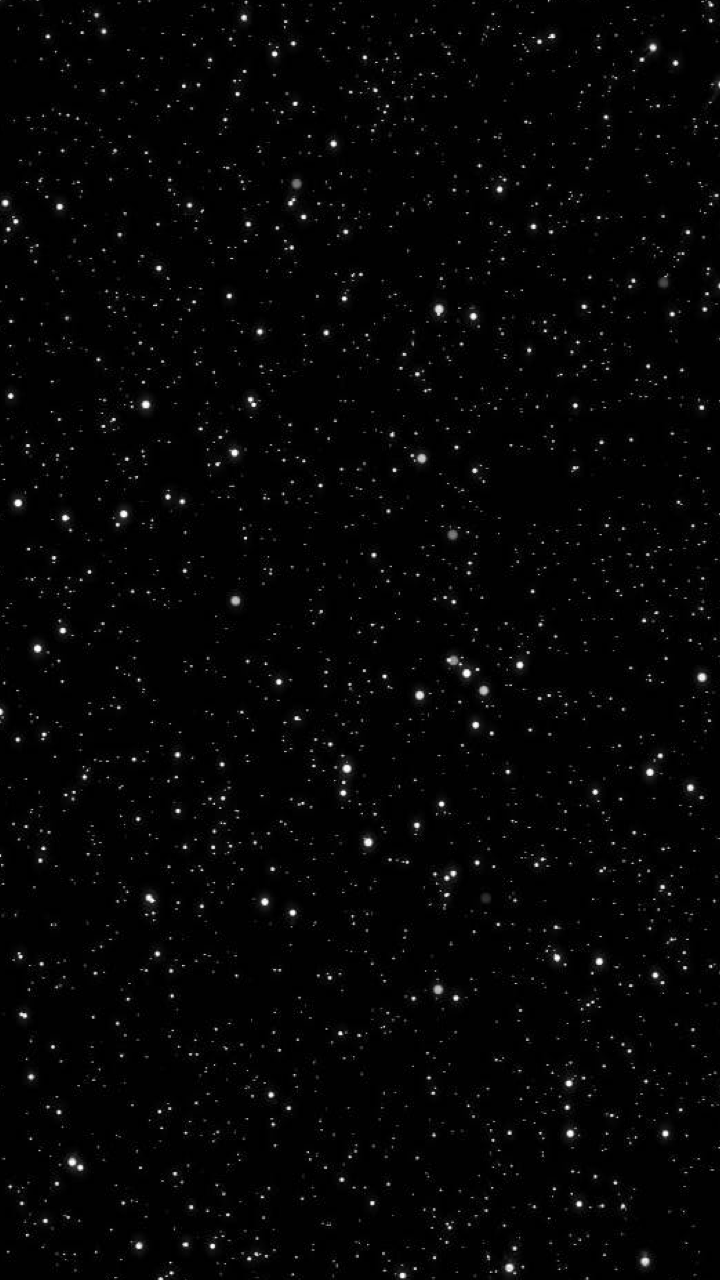
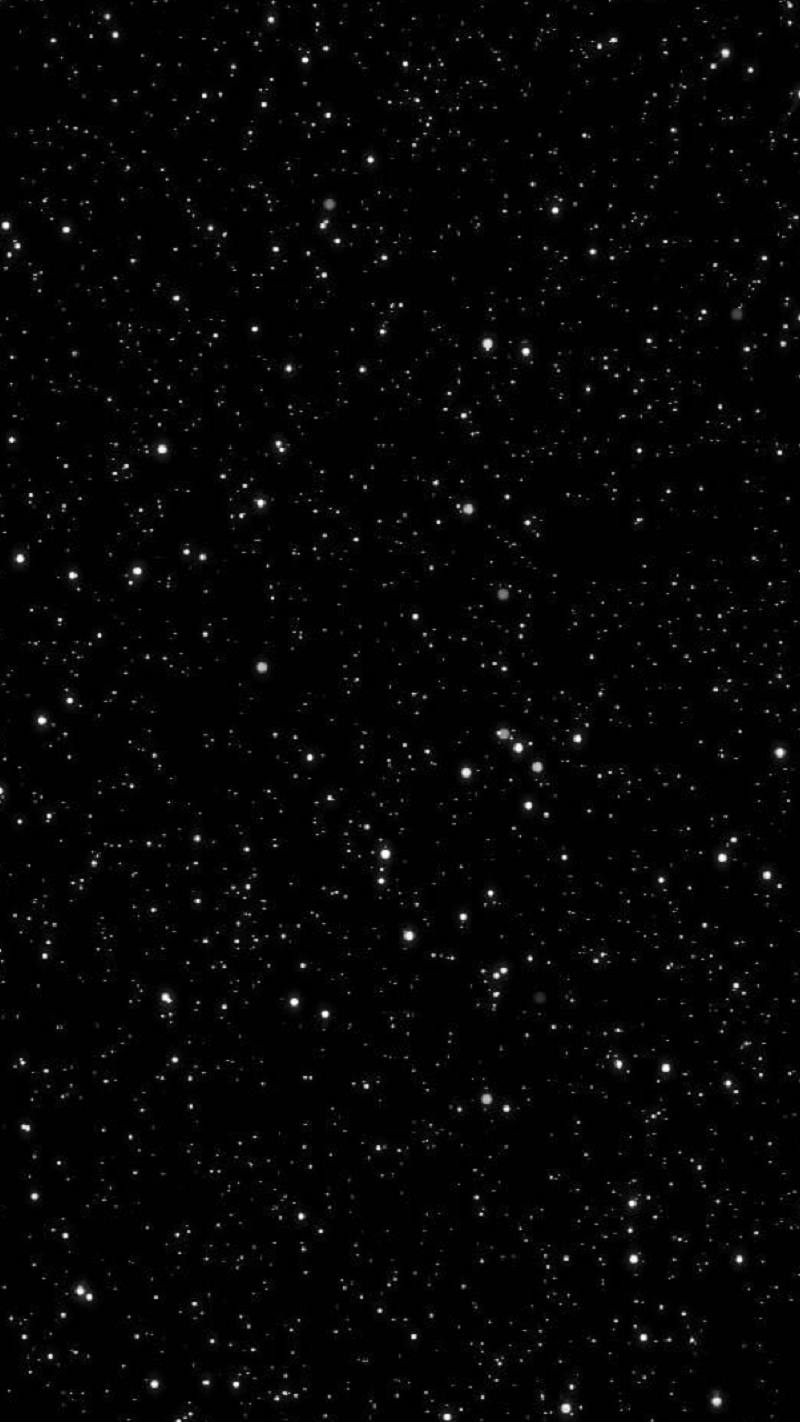
galaxy

diff --git a/Scripts/scenes/play.ts b/Scripts/scenes/play.ts
@@ -11,6 +11,7 @@ module scenes {
         private _collision: managers.Collision;
         private _scoreLabel: objects.Label;
         private _livesLabel: objects.Label;
+        private _TimeLabel: objects.Label;
 
         //creates an instance of Play
         constructor() {
@@ -20,6 +21,7 @@ module scenes {
         private _updateScoreBoard() {
             this._livesLabel.text = "Lives: " + core.lives;
             this._scoreLabel.text = "Score: " + core.score;
+            this._TimeLabel.text = "Time: " + core.score;
         }
 
         public Start(): void {
@@ -51,11 +53,14 @@ module scenes {
             this._collision = new managers.Collision();
 
             //score label
-            this._scoreLabel = new objects.Label("Score: " + core.score, "40px", "Dock51", "#FFFF00", 350, 5, false);
+            this._scoreLabel = new objects.Label("Score: " + core.score, "40px", "Dock51", "#FFFF00", 260, 5, false);
             this.addChild(this._scoreLabel);
 
             this._livesLabel = new objects.Label("Lives: " + core.lives, "40px", "Dock51", "#FFFF00", 10, 5, false);
             this.addChild(this._livesLabel);
+
+            this._TimeLabel = new objects.Label("Lives: " + core.Time, "40px", "Dock51", "#FFFF00", 510, 5, false);
+            this.addChild(this._TimeLabel);
 
             core.stage.addChild(this);
 

diff --git a/Scripts/scenes/play.js b/Scripts/scenes/play.js
@@ -19,6 +19,7 @@ var scenes;
         Play.prototype._updateScoreBoard = function () {
             this._livesLabel.text = "Lives: " + core.lives;
             this._scoreLabel.text = "Score: " + core.score;
+            this._TimeLabel.text = "Time: " + core.score;
         };
         Play.prototype.Start = function () {
             //galaxy
@@ -42,10 +43,12 @@ var scenes;
             }
             this._collision = new managers.Collision();
             //score label
-            this._scoreLabel = new objects.Label("Score: " + core.score, "40px", "Dock51", "#FFFF00", 350, 5, false);
+            this._scoreLabel = new objects.Label("Score: " + core.score, "40px", "Dock51", "#FFFF00", 260, 5, false);
             this.addChild(this._scoreLabel);
             this._livesLabel = new objects.Label("Lives: " + core.lives, "40px", "Dock51", "#FFFF00", 10, 5, false);
             this.addChild(this._livesLabel);
+            this._TimeLabel = new objects.Label("Lives: " + core.Time, "40px", "Dock51", "#FFFF00", 510, 5, false);
+            this.addChild(this._TimeLabel);
             core.stage.addChild(this);
         };
         Play.prototype.Update = function () {

diff --git a/Scripts/objects/galaxyPath.js b/Scripts/objects/galaxyPath.js
@@ -15,7 +15,9 @@ var objects;
         function galaxyPath(imageString) {
             var _this = _super.call(this, core.assets.getResult(imageString)) || this;
             _this.width = 800;
-            _this.height = 1280;
+            _this.height = 1422;
+            _this.x = _this.width * 0.5;
+            _this.y = _this.height * 0.5;
             _this.regX = _this.width * 0.5;
             _this.regY = _this.height * 0.5;
             _this.start();
@@ -64,9 +66,8 @@ var objects;
             this.galaxyMove();
         };
         galaxyPath.prototype.galaxyMove = function () {
-            console.log(this.rotation);
             this.y += this._dy;
-            this.rotation += this._dy;
+            //this.rotation += this._dy;
         };
         return galaxyPath;
     }(createjs.Bitmap));

diff --git a/Scripts/scenes/pathLvl.js b/Scripts/scenes/pathLvl.js
@@ -21,7 +21,7 @@ var scenes;
             this._scoreLabel.text = "Score: " + core.score;
         };
         pathLevel.prototype.Start = function () {
-            this._galaxy = new objects.galaxyPath("galaxyPath");
+            this._galaxy = new objects.galaxyPath("galaxy");
             this.addChild(this._galaxy);
             //adds background
             this._backgr = new objects.Background("pathLevel");
@@ -44,6 +44,7 @@ var scenes;
             this.addChild(this._scoreLabel);
             this._livesLabel = new objects.Label("Lives: " + core.lives, "40px", "Dock51", "#FFFF00", 10, 5, false);
             this.addChild(this._livesLabel);
+            console.log("PATHLEVEL");
             core.stage.addChild(this);
         };
         pathLevel.prototype.Update = function () {

diff --git a/Scripts/objects/galaxyPath.ts b/Scripts/objects/galaxyPath.ts
@@ -5,11 +5,12 @@ module objects {
         private _dy:number;
         private timer: number;
         private width: number = 800;
-        private height: number = 1280;
+        private height: number = 1422;
       
         constructor(imageString: string) {
             super(core.assets.getResult(imageString));
-
+            this.x = this.width * 0.5;
+            this.y = this.height * 0.5;
             this.regX = this.width * 0.5;
             this.regY = this.height * 0.5;
             this.start();
@@ -66,9 +67,8 @@ module objects {
 
         public galaxyMove()
         {
-            console.log(this.rotation);
             this.y += this._dy;
-            this.rotation += this._dy;
+            //this.rotation += this._dy;
         }
     }
 }

diff --git a/Scripts/scenes/pathLvl.ts b/Scripts/scenes/pathLvl.ts
@@ -25,7 +25,7 @@ export class pathLevel extends objects.Scene{
         }
 
         public Start(): void {
-            this._galaxy = new objects.galaxyPath("galaxyPath");
+            this._galaxy = new objects.galaxyPath("galaxy");
             this.addChild(this._galaxy);
 
             //adds background
@@ -56,7 +56,7 @@ export class pathLevel extends objects.Scene{
             this._livesLabel = new objects.Label("Lives: " + core.lives, "40px", "Dock51", "#FFFF00", 10, 5, false);
             this.addChild(this._livesLabel);
 
-
+            console.log("PATHLEVEL");
             core.stage.addChild(this);
         }
 

diff --git a/Scripts/scenes/mainMenu.js b/Scripts/scenes/mainMenu.js
@@ -52,7 +52,7 @@ var scenes;
             core.changeScene();
         };
         Menu.prototype._pathButtonClick = function (event) {
-            core.scene = config.Scene.PLAY;
+            core.scene = config.Scene.PATH;
             core.changeScene();
         };
         return Menu;

diff --git a/Scripts/scenes/mainMenu.ts b/Scripts/scenes/mainMenu.ts
@@ -60,7 +60,7 @@ core.changeScene();
 }
 
 private _pathButtonClick(event:createjs.MouseEvent):void{
-core.scene = config.Scene.PLAY;
+core.scene = config.Scene.PATH;
 core.changeScene();
 }
 
